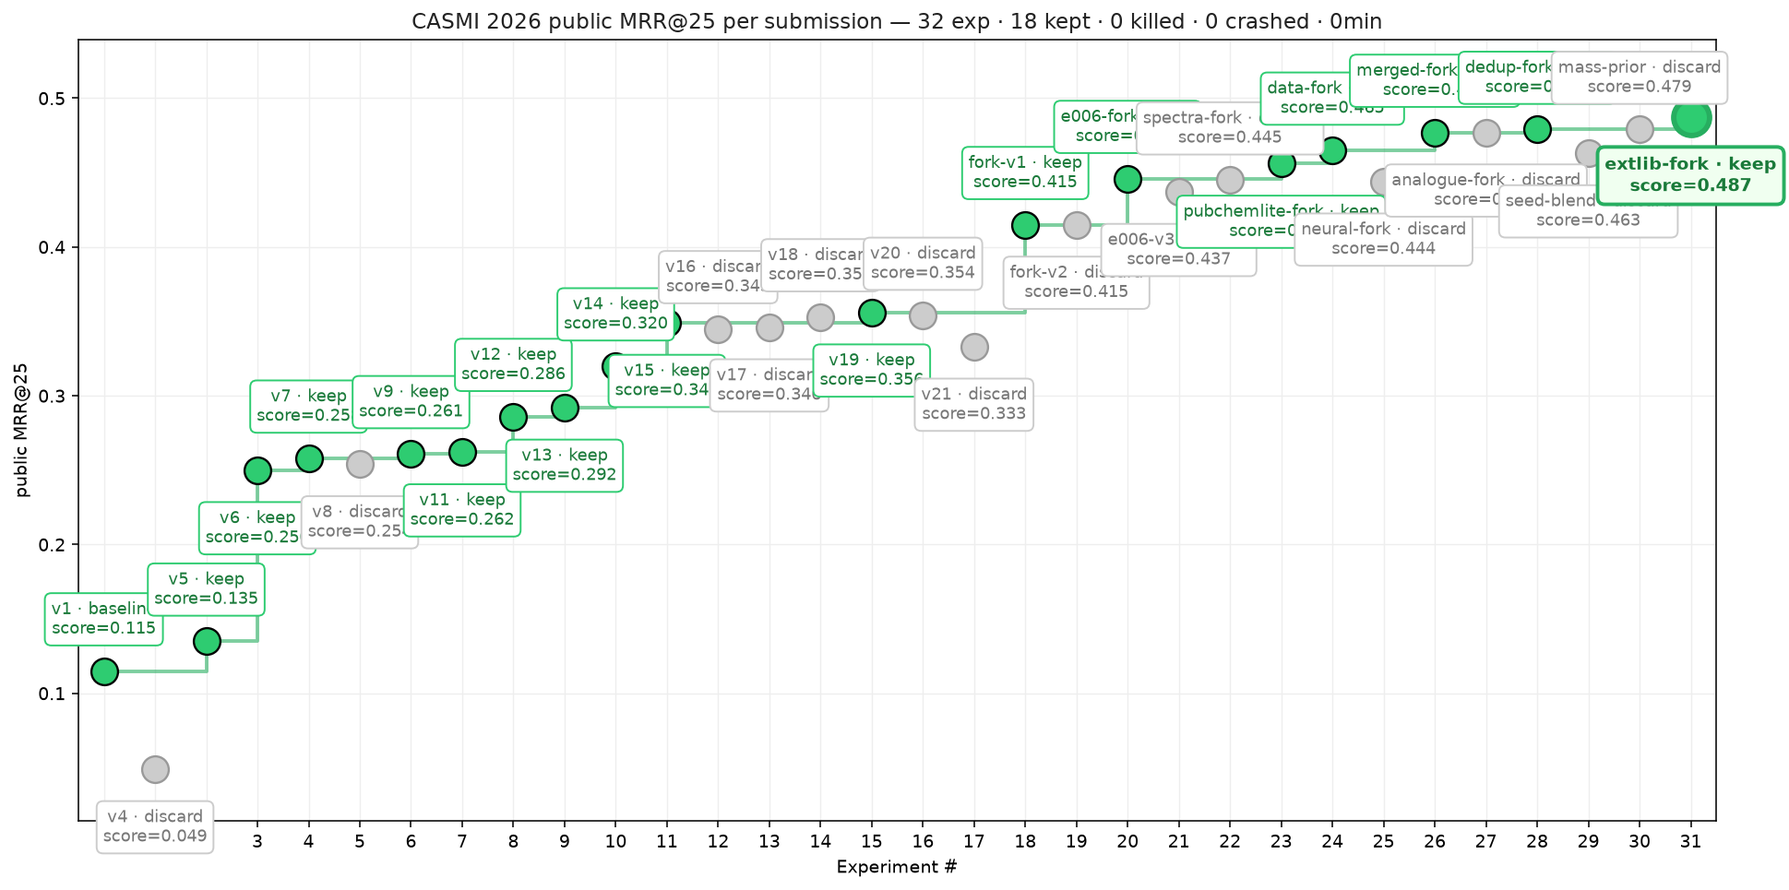
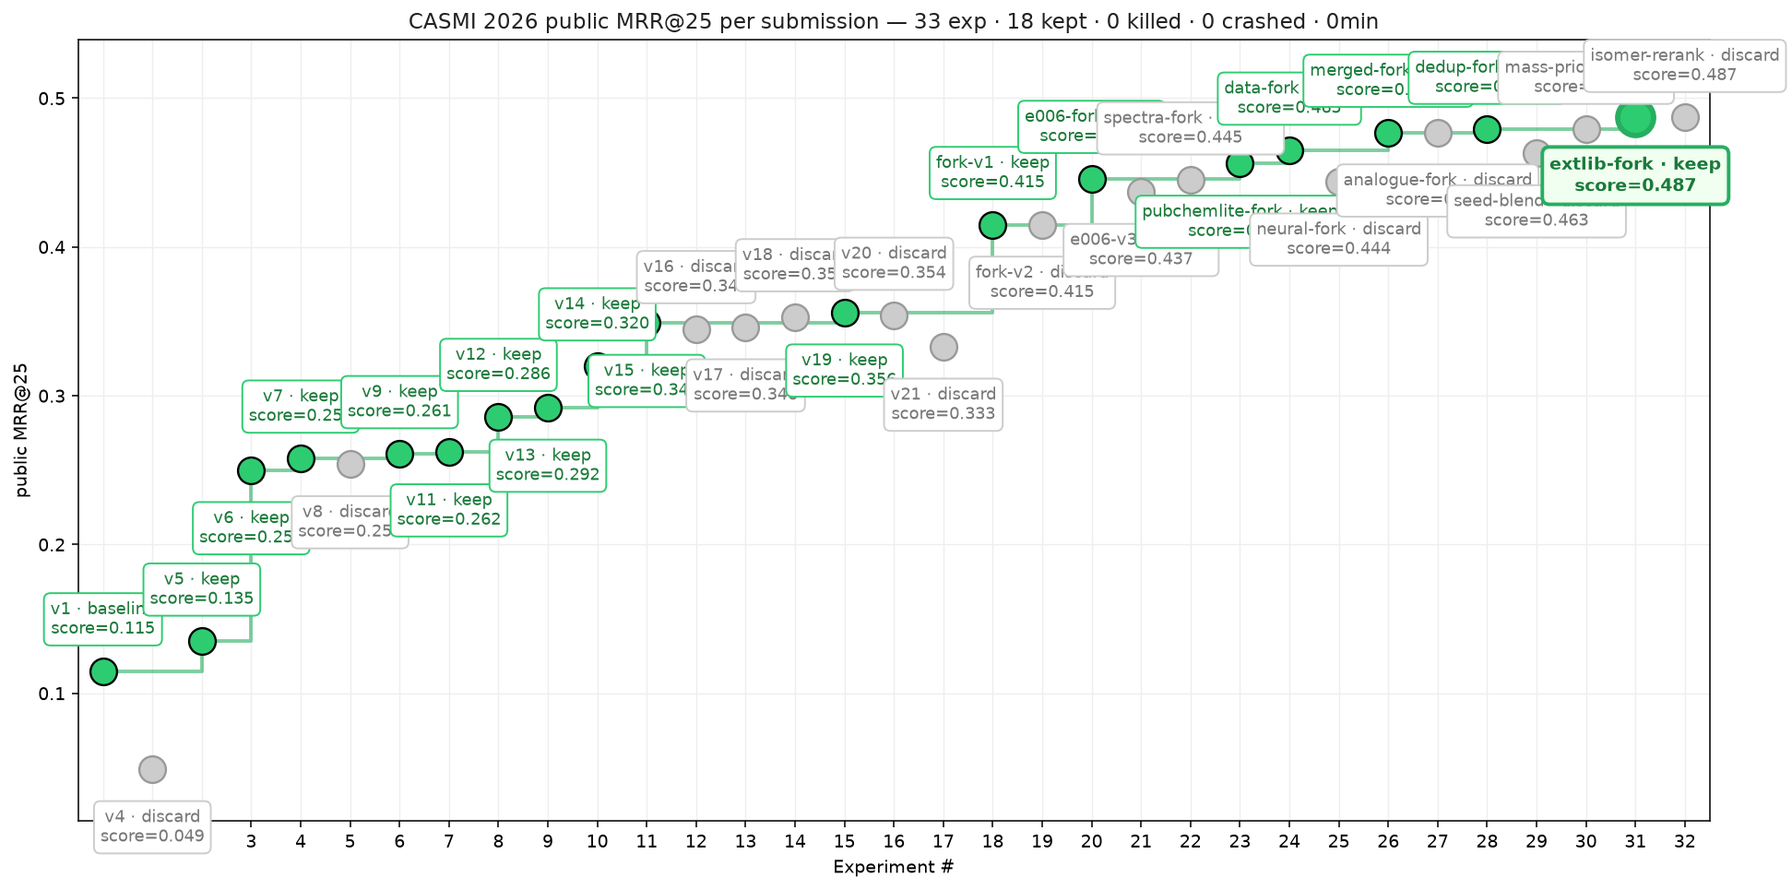
docs(casmi): the isomer reranker (fork487 v2) scores 0.487, no change, discarded
Submission 58292050: fork487 v1 with the notebook's learned isomer reranker
on (V8 BOTH, RR8_ALPHA 0.20) scored 0.487, the same as v1. The commit run's
reranker ran on 400 lists but reranked none of the 12 library-matched smoke
lists, so its reach on the hidden test was not visible. Discarded; v3
(62b95fb, RR8_ALPHA 0.15) is running. Records the verdict row, the fork487
README table, both READMEs, report.md, the experiment card, report.tex/pdf,
progress.png and progress.html (34 submissions).

Claude-Session: https://claude.ai/code/session_0187xyRBYceSCAYfZG5YcgJ6

diff --git a/casmi/docs/progress.html b/casmi/docs/progress.html
@@ -81,13 +81,13 @@ details[open] summary { margin-bottom: 12px; }
       <div class="fig"><b>0.415</b><span>first fork · fork-v1 of the 0.421 notebook</span></div>
       <div class="fig"><b>0.356</b><span>our own pipeline's best · v19</span></div>
       <div class="fig"><b>0.115</b><span>first submission · v1</span></div>
-      <div class="fig"><b>33 / 33</b><span>submissions scored, none omitted</span></div>
+      <div class="fig"><b>34 / 34</b><span>submissions scored, none omitted</span></div>
     </div>
   </header>
 
   <section aria-labelledby="spec-h">
     <h2 id="spec-h">Every submission, drawn as a spectrum</h2>
-    <p>Each stick is one scored submission, in order; its height is the public MRR@25. Kept versions are solid, versions that were not kept are grey. The dashed lines mark the 0.421 public notebook and the 0.540 leaderboard top (12 November); the e006-fork and pubchemlite-fork sticks reproduce their notebooks' public 0.446 and 0.456 exactly. The dotted rule is the rebase onto public notebooks; “spec” is spectra-fork, “pcl” pubchemlite-fork, “nrl” neural-fork, “mrg” merged-fork, “ana” analogue-fork, “ddp” dedup-fork, “sdb” seed-blend, “msp” mass-prior and “ext” extlib-fork; merged-fork set the last measured gain at 0.477, +0.012 over data-fork's 0.465, analogue-fork scored the same 0.477, dedup-fork scored 0.479, and the last stick, extlib-fork, scored 0.487, our highest but inside the ±0.016 between submissions.</p>
+    <p>Each stick is one scored submission, in order; its height is the public MRR@25. Kept versions are solid, versions that were not kept are grey. The dashed lines mark the 0.421 public notebook and the 0.540 leaderboard top (12 November); the e006-fork and pubchemlite-fork sticks reproduce their notebooks' public 0.446 and 0.456 exactly. The dotted rule is the rebase onto public notebooks; “spec” is spectra-fork, “pcl” pubchemlite-fork, “nrl” neural-fork, “mrg” merged-fork, “ana” analogue-fork, “ddp” dedup-fork, “sdb” seed-blend, “msp” mass-prior, “ext” extlib-fork and “iso” isomer-rerank; merged-fork set the last measured gain at 0.477, +0.012 over data-fork's 0.465, analogue-fork scored the same 0.477, dedup-fork scored 0.479, extlib-fork scored 0.487, our highest but inside the ±0.016 between submissions, and the last stick, isomer-rerank, scored the same 0.487.</p>
     <div class="chart"><svg id="spectrum" viewBox="0 0 760 326" role="img" aria-label="Stick chart of 32 submission scores (33 submissions, the v19 re-run folded in) rising from 0.115 to a best of 0.487"></svg>
       <div class="legend"><span><i class="key" style="background:var(--peak)"></i>kept</span><span><i class="key" style="background:var(--dim)"></i>not kept</span><span><i class="key" style="background:var(--ref)"></i>reference scores</span></div>
     </div>
@@ -181,10 +181,11 @@ flowchart TD
 
   <section aria-labelledby="nov12-h">
     <h2 id="nov12-h">What changed on 12–13 November</h2>
-    <p>The public 0.487 notebook reproduced on our account at 0.487: the new base, +0.008 over 0.479, inside the noise.</p>
+    <p>The public 0.487 notebook reproduced on our account at 0.487: the new base, +0.008 over 0.479, inside the noise. Its learned isomer reranker, turned on alone, also scored 0.487.</p>
     <ul class="limits">
       <li><b>Extlib fork: PROMOTE, inside the noise.</b> Hongbin Gu's “casmi26-v589-alex0484-extlib” as private kernel casmi-fork487, with one change: the commit run executes every stage on the 12 visible molecules so the gate can check them. The gate passed (OURS bundle and ensemble line, mass prior on 394 / 400 lists, documentation prior, extlib 324,884 spectra loaded); submission 58272211 scored 0.487 (13 November 03:43 AEDT).</li>
-      <li><b>Running: the learned isomer reranker.</b> Kernel version 2 turns on the notebook's own reranker at weight 0.20 (V8 = BOTH, RR8_ALPHA = 0.20). It reorders only same-formula isomers on lists whose library match is below 0.9, train structures frozen.</li>
+      <li><b>Isomer reranker: DISCARD, no change.</b> Kernel version 2 turns on the notebook's own reranker at weight 0.20 (V8 = BOTH, RR8_ALPHA = 0.20). It reorders only same-formula isomers on lists whose library match is below 0.9, train structures frozen. It ran on all 400 commit-run lists but reranked none of the 12 library-matched smoke lists, so its reach was not visible; submission 58292050 scored 0.487. ozertuu's public “[0.500+]” notebook uses these exact settings; its 0.500 is a target, not a score.</li>
+      <li><b>Running: reranker weight 0.15.</b> Kernel version 3 lowers RR8_ALPHA to 0.15, nothing else.</li>
       <li><b>Final picks</b> (two, by 14 December 23:59 UTC): the extlib fork, plus a diverse line (the 0.479 dedup fork or the 0.477 merged fork) that does not share its external-library promotion.</li>
     </ul>
   </section>
@@ -356,8 +357,9 @@ const SUBS = [
   ["seed-blend", "dedup fork + ranks 2–25 neural score = mean per-molecule z of the public scorer and three same-recipe seed retrains; −0.016", 0.463, "DISCARD"],
   ["mass-prior", "dedup fork + the Gold Apex V22 timsTOF precursor-mass prior on ranks 2–25 and its mass rank-1 rule; no change", 0.479, "DISCARD"],
   ["extlib-fork", "the public 0.487 notebook (Hongbin Gu) unchanged except a smoke commit run: Gold Apex V22 + two-scorer neural ensemble + mass prior + documentation prior + 324,884 external library spectra for rank-1 promotion; inside the noise, the new base", 0.487, "PROMOTE"],
+  ["isomer-rerank", "extlib fork + the learned isomer reranker (V8 BOTH, RR8_ALPHA 0.20; same-formula isomers on lists below library 0.9); no change", 0.487, "DISCARD"],
 ];
-const SHORT = { "spectra-fork": "spec-fork", "pubchemlite-fork": "pcl-fork", "neural-fork": "nrl-fork", "merged-fork": "mrg-fork", "analogue-fork": "ana-fork", "dedup-fork": "ddp-fork", "seed-blend": "sdb-fork", "mass-prior": "msp-fork", "extlib-fork": "ext-fork" };
+const SHORT = { "spectra-fork": "spec-fork", "pubchemlite-fork": "pcl-fork", "neural-fork": "nrl-fork", "merged-fork": "mrg-fork", "analogue-fork": "ana-fork", "dedup-fork": "ddp-fork", "seed-blend": "sdb-fork", "mass-prior": "msp-fork", "extlib-fork": "ext-fork", "isomer-rerank": "iso-rr" };
 const bestScore = Math.max(...SUBS.filter(s => s[3] !== "DISCARD").map(s => s[2]));
 const bestIdx = SUBS.findIndex(s => s[3] !== "DISCARD" && s[2] === bestScore);
 const firstFork = SUBS.findIndex(s => s[0].includes("fork"));

diff --git a/casmi/docs/report.tex b/casmi/docs/report.tex
@@ -43,7 +43,7 @@ newer MIST encoder and an external spectral library, were closed without a submi
 three seed retrains of it scored 0.463, and the public Gold Apex V22 timsTOF mass prior added alone scored 0.479 (no
 change); both were discarded. A tenth fork, Hongbin Gu's public 0.487 notebook (Gold Apex V22 with a two-scorer
 neural ensemble and 324{,}884 external library spectra for rank-1 promotion), reproduced 0.487: the new base, though
-$+0.008$ over 0.479 is inside the $\pm0.016$ between submissions. 33 submissions were made and all were
+$+0.008$ over 0.479 is inside the $\pm0.016$ between submissions. A learned isomer reranker on top of it also scored 0.487. 34 submissions were made and all were
 scored. No calibrated local estimate of the score exists.
 \end{abstract}
 
@@ -195,6 +195,7 @@ dedup-fork & the public 0.479 notebook, unchanged (inside the noise) & 0.479 \\
 seed-blend & + three seed retrains in the ranks 2--25 neural score (not kept) & 0.463 \\
 mass-prior & + timsTOF precursor-mass prior and mass rank-1 rule (not kept) & 0.479 \\
 extlib-fork & the public 0.487 notebook, unchanged (inside the noise) & \textbf{0.487} \\
+isomer-rerank & + learned isomer reranker, weight 0.20 (not kept) & 0.487 \\
 \bottomrule
 \end{tabular}
 \end{center}
@@ -302,7 +303,10 @@ popwenman's Gold Apex V22 with the public spectrum model and an 80-epoch retrain
 $0.5\,z_\text{public} + 0.5\,z_\text{ours}$, the timsTOF mass prior, a documentation prior, and rank-1 promotion from
 324{,}884 external library spectra (Takumu Hata's extlib plus harmonised MassBank) at cosine $\ge 0.8$. The gate
 passed; it scored 0.487 (submission 58272211), $+0.008$ over 0.479, one to two molecules: promoted as the base, not a
-measured gain. Its kernel version 2 turns on the notebook's learned isomer reranker at weight 0.20 and is running.
+measured gain. Its kernel version 2 turns on the notebook's learned isomer reranker at weight 0.20 (it reorders same-formula isomers
+on lists whose library match is below 0.9); the reranker ran on all 400 commit-run lists but reranked none of the 12
+library-matched smoke lists, and the submission (58292050) scored 0.487, no change: discarded. Version 3, weight 0.15,
+is running.
 
 \textbf{Precursor-mass prior (mass-prior, 7 November).} Kernel version 3 adds, alone, romanrozen's timsTOF mass
 prior from popwenman's public Gold Apex V22 notebook with its constants: on ranks 2--25 a candidate loses up to 0.15
@@ -363,7 +367,7 @@ its fingerprints reach Tanimoto 0.245 in its own 10{,}226-bit space and 0.180 ma
     $[\mathrm{M{+}H}]^+$ only (v16), popularity weight 0.15 (v8): inside the noise or below it.
 \end{itemize}
 
-\textbf{Next.} The base is now the 0.487 extlib fork; its isomer-reranker variant is running. Final picks (two, by 14
+\textbf{Next.} The base is now the 0.487 extlib fork; its isomer reranker at weight 0.20 scored 0.487 (no change), and weight 0.15 is running. Final picks (two, by 14
 December 23:59 UTC): the extlib fork and a diverse line, the 0.479 dedup fork or the 0.477 merged fork. No leader has published a method; the seed blend closed the same-model
 ensemble route and the Gold Apex mass prior alone did not move the score. The ICEBERG PubChem atlas, allowed by the host on 28 October, was reviewed on 3 November and skipped.
 A daily watch of public notebooks runs until the deadline and flags any claim of 0.485 or more. Analogue propagation on the 0.477 base scored 0.477 (no change). Before it, single settings of the E006 family look tuned

diff --git a/casmi/docs/experiment-card.md b/casmi/docs/experiment-card.md
@@ -33,7 +33,7 @@ before it (0.446), an unchanged fork of the public E006 notebook,
 | datasets | 10 plus one kernel source, as listed in [`kernel-metadata.json`](../notebooks/fork487/kernel-metadata.json); the source's `id_no` and `keywords` removed (a copied `id_no` overrides `id` and makes the push fail with 403) |
 | runtime | image `gcr.io/kaggle-private-byod/python@sha256:37c64f7dd9c54116ecd1bcc88817c5469b88387388fade02bfa8bf3fc647d461`, NVIDIA T4, internet off |
 | run evidence | gate `~/casmi-data/gates/gate_fork487.py` (outside the repo) passed on the commit run: the fork477 gate, plus `OURS BUNDLE READY`, the ensemble line, mass prior on (394 / 400 lists touched, 447 candidates penalised), documentation prior reordered 12 rows, extlib loaded 324,884 spectra with 0 matches and 0 promotions (the smoke molecules are train copies), no fallback or unexpected `Note: ... exception` line. Outputs: `~/casmi-data/kernel_outputs/fork487-v1` |
-| next | kernel version 2 ([`28c5ce3`](https://github.com/charleneleong-ai/ai4science/commit/28c5ce3)): the learned isomer reranker on (`V8 = 'BOTH'`, `RR8_ALPHA = 0.20`), gate `gate_fork487_v2.py` adds the reranker's `"status": "ran"`; running |
+| next | kernel version 2 ([`28c5ce3`](https://github.com/charleneleong-ai/ai4science/commit/28c5ce3)), the learned isomer reranker on (`V8 = 'BOTH'`, `RR8_ALPHA = 0.20`), gate `gate_fork487_v2.py`: 0.487 (58292050), no change, discarded; kernel version 3 ([`62b95fb`](https://github.com/charleneleong-ai/ai4science/commit/62b95fb)), `RR8_ALPHA = 0.15`, running |
 
 The settings were fixed by the notebook's authors before we ran it; we chose none of them.
 
@@ -271,7 +271,7 @@ fragment check has none.
 
 ## Budget — every attempt in the denominator
 
-- **33 submissions, 33 scored, 0 rejected.** 19 from our own pipeline, one an identical re-run of v19
+- **34 submissions, 34 scored, 0 rejected.** 19 from our own pipeline, one an identical re-run of v19
   to measure noise (0.353 vs 0.356); every one is in the
   [score table](https://github.com/charleneleong-ai/ai4science/pull/80), including those not kept
   (0.049, 0.254, 0.345, 0.346), plus v18 (0.353, within noise), v19 (0.356, kept), v20 (0.354) and v21 (0.333) in
@@ -285,7 +285,7 @@ fragment check has none.
   (0.477, 57822991, kernel version 1, promoted); its kernel version 2, analogue-fork (0.477, 57826104, discarded).
   Three from the 0.479 notebook: dedup-fork (0.479, 57867559, kernel version 1, kept within the noise), its kernel
   version 2, seed-blend (0.463, 58046573, discarded), and kernel version 3, mass-prior (0.479, 58107187, discarded). One from the 0.487 notebook: extlib-fork (0.487,
-  58272211, kernel version 1, promoted).
+  58272211, kernel version 1, promoted) and isomer-rerank (0.487, 58292050, kernel version 2, discarded).
 - **Two measurement kernels, not submissions:** the ranker training set (2000 held-out train
   molecules, 3 h 37 min) and the second-pass recall probe (300 molecules, 35 min; v1 replaced before
   it finished because an empty mass window would have crashed it).
@@ -330,7 +330,7 @@ fragment check has none.
 | seed blend: equal weights, shipped schedule, three seeds | **before** the retrains (2026-11-03) | one change per submission; scored 0.463, discarded |
 | mass prior: V22's constants (centre −1.5 ppm, free 3, full 8, weight 0.15; rank-1 rule at 5 ppm, library < 0.9) | by its authors; adopted **before** our run (2026-11-08) | one change per submission; band checked on train first; scored 0.479, discarded |
 | the extlib fork's settings (scorer ensemble 0.5 / 0.5, mass prior, documentation prior, extlib cosine 0.8, K = 4) | by its authors, before we ran it | not ours; scored on the public leaderboard upstream (0.487) |
-| isomer reranker for v2: `V8 = 'BOTH'`, `RR8_ALPHA = 0.20` | **before** its run (2026-11-13) | one change per submission; small weight chosen so it can only reorder same-formula isomers; pending |
+| isomer reranker for v2: `V8 = 'BOTH'`, `RR8_ALPHA = 0.20` | **before** its run (2026-11-13) | one change per submission; small weight chosen so it can only reorder same-formula isomers; 0.487, no change; v3 lowers it to 0.15 (fixed before its run), running |
 | MIST `msg_aug` gate: mean Tanimoto ≥ 0.40 on the 50 FRIGID molecules | **before** the run (2026-11-01) | pre-registered; 0.385 fails it, so no FRIGID decode was run |
 | external-library reach: cosine ≥ 0.5, 20 ppm, same ion mode, structures absent from train | **before** the count | a reach check; 0 / 400, so no submission |
 | analogue propagation (fork477 v3: anchor ≥ 0.87, cosine ≥ 0.70, λ 0.10, rank 1 frozen) | **before** it was submitted | its reach (113 / 400) checked first; no offline panel can score it; scored 0.477, no change, discarded |

diff --git a/casmi/docs/experiments/casmi/report.md b/casmi/docs/experiments/casmi/report.md
@@ -4,9 +4,9 @@ public 0.487 notebook *casmi26-v589-alex0484-extlib* run as our private kernel, 
 run: popwenman's Gold Apex V22 with an 80-epoch retrained spectrum model ensembled 0.5/0.5 with the public one, the
 timsTOF mass prior, a documentation prior and 324,884 external library spectra (Takumu Hata's extlib plus harmonised
 MassBank) for rank-1 promotion. Its +0.008 over the 0.479 dedup fork is one to two molecules of the ~124-molecule
-public split, inside the ±0.016 between submissions, so it is the new base (PROMOTE), not a measured gain. 33
+public split, inside the ±0.016 between submissions, so it is the new base (PROMOTE), not a measured gain. 34
 submissions scored; its kernel version 2, the same notebook with the learned isomer reranker on (`V8 = 'BOTH'`,
-`RR8_ALPHA = 0.20`), is running. Two offline probes closed without a submission (MIST `msg_aug` encoder, an external
+`RR8_ALPHA = 0.20`), scored 0.487 (no change, discarded) and version 3 (`RR8_ALPHA = 0.15`) is running. Two offline probes closed without a submission (MIST `msg_aug` encoder, an external
 GNPS+MassSpecGym library). The leaderboard top is 0.540 (2026-11-12).
 
 | | public MRR@25 | submission |
@@ -63,6 +63,7 @@ GNPS+MassSpecGym library). The leaderboard top is 0.540 (2026-11-12).
 | 2026-11-06 | seed-blend | dedup-fork + ranks 2–25 neural score averaged over the public scorer and three seed retrains | 0.463 |
 | 2026-11-07 | mass-prior | dedup-fork + timsTOF precursor-mass prior on ranks 2–25 and a mass rank-1 rule (from Gold Apex V22) | 0.479 |
 | 2026-11-12 | extlib-fork | the public 0.487 notebook (Gold Apex V22 + 80-epoch scorer ensemble + external spectral libraries), unchanged; inside the noise | **0.487** |
+| 2026-11-13 | isomer-rerank | extlib-fork + learned isomer reranker (`RR8_ALPHA = 0.20`); no change, discarded | 0.487 |
 
 ## Task
 [CASMI 2026](https://www.kaggle.com/competitions/enveda-CASMI26-molecule-id-mass-spectra): rank
@@ -152,6 +153,11 @@ Generated by `casmi wandb-sync`.
   stage on the 12 visible molecules. The gate `gate_fork487.py` checked the OURS bundle and the ensemble line, the mass
   prior (394 / 400 lists touched), the documentation prior and the extlib stage (324,884 spectra loaded, 0 matches on
   the train-copy smoke molecules). Submission 58272211 reproduced 0.487.
+- The isomer reranker (isomer-rerank, 2026-11-13, 0.487 against 0.487): kernel version 2 turns on the notebook's
+  learned reranker (`V8 = 'BOTH'`, `RR8_ALPHA = 0.20`), which reorders same-formula isomers on lists whose library
+  match is below 0.9. The gate `gate_fork487_v2.py` saw it run on all 400 lists, but the 12 smoke lists are library
+  matches, so it reranked none and its reach on the hidden test was not visible. Submission 58292050 scored 0.487, no
+  change: discarded. ozertuu's public "[0.500+]" notebook uses these exact settings; its 0.500 is a target, not a score.
 - MIST `msg_aug` encoder for the de novo route (offline, 2026-11-01, no submission): mean fingerprint Tanimoto 0.385 on
   the 50 FRIGID panel molecules against a pre-registered gate of 0.40 (the old `mist_msg.pt`: 0.261). The `noaug`
   control is unusable (0.19 even on its own training spectra), so the source of the gain is not measured. The
@@ -171,9 +177,9 @@ Generated by `casmi wandb-sync`.
   are a property of the visible test (train examples), not the hidden test the leaderboard scores.
 
 ## Next
-The base is now the 0.487 extlib fork. Its kernel version 2 turns on the notebook's learned isomer reranker at a small
+The base is now the 0.487 extlib fork. Its kernel version 2 turned on the notebook's learned isomer reranker at a small
 weight (`V8 = 'BOTH'`, `RR8_ALPHA = 0.20`; it reorders only same-formula isomers on lists whose library match is below
-0.9) and is running. The seed blend (0.463) closed the same-model ensemble route, and the Gold Apex V22 mass prior
+0.9) and scored 0.487, no change; version 3 lowers the weight to 0.15 and is running. The seed blend (0.463) closed the same-model ensemble route, and the Gold Apex V22 mass prior
 alone scored 0.479 (no change). The daily watch of public notebooks runs until the deadline and flags a claim of 0.485
 or more. One public notebook puts the public split at about 125 molecules, ±0.016 between submissions by chance
 (unverified). Final picks (two, by 2026-12-14 23:59 UTC): the extlib fork (pick A) and a diverse line as pick B, the

diff --git a/README.md b/README.md
@@ -19,7 +19,7 @@ A fast generative/predictive model is increasingly a commodity. What converts a 
 | Project | What it is |
 | --- | --- |
 | [`touchstone/`](touchstone) | A generator-agnostic verifier for designed metal-binding proteins: geometry, bond-valence and precedent oracles vote trust / weak / defer. |
-| [`casmi/`](casmi) | Molecule identification from MS/MS for the CASMI 2026 Kaggle competition. Best public MRR@25: 0.487 (2026-11-12, a private fork of Hongbin Gu's public 0.487 extlib notebook; +0.008 over 0.479, inside the ±0.016 noise; an isomer reranker on top is running). Before it 0.479 (2026-11-01, a fork of alex chilton's public 0.479 notebook; a seed-ensemble neural re-rank scored 0.463 on 2026-11-06 and a timsTOF mass prior 0.479 on 2026-11-07, both discarded; leaderboard top 0.540); our own pipeline's best is 0.356 (v19). Its first submission scored 0.115 against a local estimate of 0.664, so it now trusts only the leaderboard. |
+| [`casmi/`](casmi) | Molecule identification from MS/MS for the CASMI 2026 Kaggle competition. Best public MRR@25: 0.487 (2026-11-12, a private fork of Hongbin Gu's public 0.487 extlib notebook; +0.008 over 0.479, inside the ±0.016 noise; an isomer reranker on top scored 0.487 on 2026-11-13, no change; a lower reranker weight is running). Before it 0.479 (2026-11-01, a fork of alex chilton's public 0.479 notebook; a seed-ensemble neural re-rank scored 0.463 on 2026-11-06 and a timsTOF mass prior 0.479 on 2026-11-07, both discarded; leaderboard top 0.540); our own pipeline's best is 0.356 (v19). Its first submission scored 0.115 against a local estimate of 0.664, so it now trusts only the leaderboard. |
 
 The one-line pitch that ties it all together:
 

diff --git a/casmi/notebooks/fork487/README.md b/casmi/notebooks/fork487/README.md
@@ -25,7 +25,8 @@ that two submissions differ by chance, so it is the new base (PROMOTE), not a me
 | kernel version | change | public MRR@25 |
 |---|---|---|
 | 1 | none, apart from `COMMIT_MODE = 'smoke'` ([`2dc7d19`](https://github.com/charleneleong-ai/ai4science/commit/2dc7d19)) | **0.487** (ref 58272211, submitted 2026-11-12 23:06 AEDT; reproduces upstream; PROMOTE, +0.008 over 0.479, inside the noise) |
-| 2 | v1 with the learned isomer reranker on: `V8 = 'BOTH'`, `RR8_ALPHA = 0.20` ([`28c5ce3`](https://github.com/charleneleong-ai/ai4science/commit/28c5ce3)); gate `gate_fork487_v2.py` | running |
+| 2 | v1 with the learned isomer reranker on: `V8 = 'BOTH'`, `RR8_ALPHA = 0.20` ([`28c5ce3`](https://github.com/charleneleong-ai/ai4science/commit/28c5ce3)); gate `gate_fork487_v2.py` | 0.487 (ref 58292050, submitted 2026-11-13 13:14 AEDT; DISCARD, no change; the commit run's reranker ran on 400 lists, skipped the 12 smoke lists as library matches and reranked 0, so its reach on the hidden test was not visible) |
+| 3 | v2 with `RR8_ALPHA = 0.15` ([`62b95fb`](https://github.com/charleneleong-ai/ai4science/commit/62b95fb)); same gate | running |
 
 Run it with [`scripts/kaggle_chain.sh`](../../scripts/kaggle_chain.sh). The gate is
 `~/casmi-data/gates/gate_fork487.py`, kept outside the repo.

diff --git a/casmi/README.md b/casmi/README.md
@@ -10,8 +10,8 @@ Kaggle dataset.
 kernel [`casmi-fork487`](notebooks/fork487), unchanged except for a smoke commit run). It is popwenman's Gold Apex V22
 with an 80-epoch retrained spectrum model ensembled with the public one, the timsTOF mass prior, a documentation prior
 and 324,884 external library spectra for rank-1 promotion. Its +0.008 over 0.479 is one to two molecules, inside the
-±0.016 between submissions, so it is the new base (PROMOTE), not a measured gain. Its kernel version 2 turns on the
-learned isomer reranker and is running.
+±0.016 between submissions, so it is the new base (PROMOTE), not a measured gain. Its kernel version 2, the learned
+isomer reranker at weight 0.20, also scored 0.487 (no change, discarded); version 3, weight 0.15, is running.
 
 Before it, **0.479** (2026-11-01: alex chilton's public 0.479 notebook run unchanged as our private kernel
 [`casmi-fork479`](notebooks/fork479)). It is the 0.477 pipeline plus a documentation prior on ranks 2–25 (PubChem
